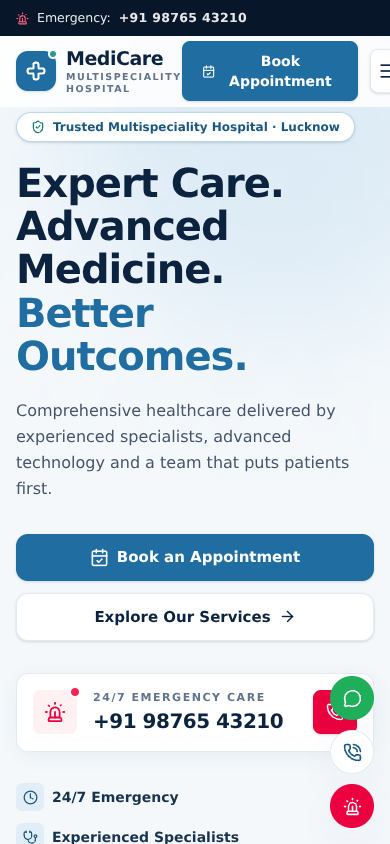
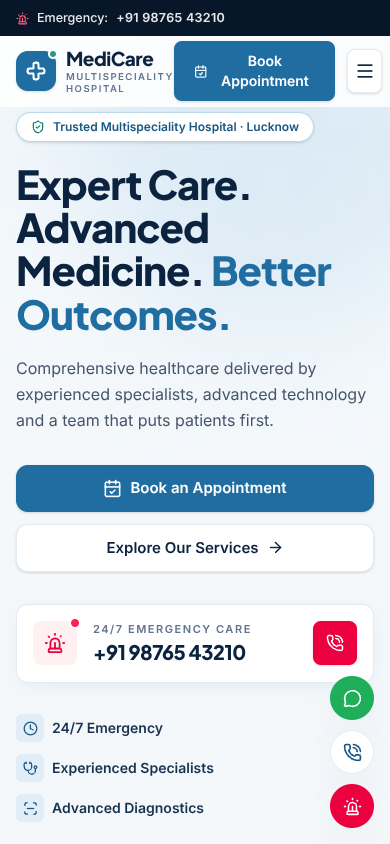
Polish pass: fix runtime theme scale bug, tap targets, stats dividers
- Fix buildScale().forEach crash when custom brand colours are set
  (verified: changing primary hex in hospitalConfig re-themes the site)
- 1200x630 OG social card from about image
- Self-hosted fonts (@fontsource) — no external requests
- Facilities: 3 unique high-res gallery tiles + on-campus amenities strip
- Larger tap targets (footer links, contact rows, topbar, view-department)
- Consistent border colours on mobile stats grid
- Cleaner doctor-modal CTA label, appointment prefill doctor-reset fix
- Automated headless-browser audit: ALL CHECKS PASS (dev + production build)

Changed region(s): [[0.0308, 0.1848, 0.9846, 1.0], [0.1538, 0.0, 1.0, 0.1848], [0.0923, 0.0, 0.2769, 0.0308]]

diff --git a/src/sections/Facilities.jsx b/src/sections/Facilities.jsx
@@ -1,7 +1,7 @@
-import { ArrowUpRight, MapPin } from "lucide-react";
-import facilities from "../data/facilities";
+import { ArrowUpRight, CheckCircle2, MapPin } from "lucide-react";
+import { amenities, facilities } from "../data/facilities";
 import hospitalConfig from "../config/hospital";
-import { cn, containerClass } from "../lib/utils";
+import { containerClass } from "../lib/utils";
 import Button from "../components/Button";
 import Reveal from "../components/Reveal";
 import SectionHeading from "../components/SectionHeading";
@@ -26,16 +26,12 @@ export default function Facilities() {
 
         <div className="mt-12 grid gap-5 sm:grid-cols-2 lg:grid-cols-3">
           {facilities.map((facility, i) => (
-            <Reveal
-              key={facility.id}
-              delay={(i % 3) * 90}
-              className={cn(facility.featured && "sm:col-span-2")}
-            >
-              <figure className="group relative h-full min-h-[220px] overflow-hidden rounded-2xl shadow-sm ring-1 ring-navy-900/5 transition-shadow duration-300 hover:shadow-lift lg:min-h-[260px]">
+            <Reveal key={facility.id} delay={i * 90}>
+              <figure className="group relative h-full overflow-hidden rounded-2xl shadow-sm ring-1 ring-navy-900/5 transition-shadow duration-300 hover:shadow-lift">
                 <img
                   src={facility.image}
                   alt={`${facility.title} at MediCare Multispeciality Hospital`}
-                  className="absolute inset-0 h-full w-full object-cover transition-transform duration-700 group-hover:scale-[1.05]"
+                  className="aspect-[4/3] w-full object-cover transition-transform duration-700 group-hover:scale-[1.05]"
                   loading="lazy"
                   decoding="async"
                 />
@@ -48,7 +44,7 @@ export default function Facilities() {
                     <h3 className="font-display text-[17px] font-bold tracking-tight text-white">
                       {facility.title}
                     </h3>
-                    <p className="mt-1 max-w-sm text-[13px] leading-snug text-white/75">
+                    <p className="mt-1 text-[13px] leading-snug text-white/75">
                       {facility.description}
                     </p>
                   </div>
@@ -63,6 +59,24 @@ export default function Facilities() {
             </Reveal>
           ))}
         </div>
+
+        {/* On-campus amenities */}
+        <Reveal delay={140}>
+          <ul className="mt-8 flex flex-wrap items-center gap-2.5">
+            <li className="mr-1 text-[13px] font-bold uppercase tracking-[0.14em] text-navy-800/60">
+              Also on campus
+            </li>
+            {amenities.map((item) => (
+              <li
+                key={item}
+                className="flex items-center gap-1.5 rounded-full border border-line bg-white px-3.5 py-2 text-[13px] font-semibold text-navy-800"
+              >
+                <CheckCircle2 size={13} className="text-accent-600" aria-hidden="true" />
+                {item}
+              </li>
+            ))}
+          </ul>
+        </Reveal>
       </div>
     </section>
   );

diff --git a/src/data/facilities.js b/src/data/facilities.js
@@ -1,49 +1,37 @@
 import facilityRoom from "../assets/images/facility-room.jpg";
 import facilityIcu from "../assets/images/facility-icu.jpg";
 import facilityOt from "../assets/images/facility-ot.jpg";
-import facilityLab from "../assets/images/facility-lab.jpg";
-import facilityReception from "../assets/images/facility-reception.jpg";
-import facilityWaiting from "../assets/images/facility-waiting.jpg";
 
 /** Facilities gallery — images are AI-generated for this demo. */
 export const facilities = [
   {
-    id: "reception",
-    image: facilityReception,
-    title: "Reception & Help Desk",
-    description: "Warm, welcoming assistance from the moment you arrive.",
-    featured: true,
-  },
-  {
     id: "patient-rooms",
     image: facilityRoom,
     title: "Modern Patient Rooms",
-    description: "Private, airy rooms designed for restful recovery.",
+    description: "Private, airy rooms with attendant beds and modern monitoring, designed for restful recovery.",
   },
   {
     id: "icu",
     image: facilityIcu,
     title: "Intensive Care Unit",
-    description: "Intensivist-led ICU with round-the-clock monitoring.",
+    description: "Intensivist-led ICU with advanced ventilators and round-the-clock monitoring.",
   },
   {
     id: "operation-theatres",
     image: facilityOt,
     title: "Operation Theatres",
-    description: "Modular OTs with laminar airflow and precision equipment.",
+    description: "Modular OTs with laminar airflow, precision optics and integrated recovery care.",
   },
-  {
-    id: "diagnostic-lab",
-    image: facilityLab,
-    title: "Diagnostic Laboratory",
-    description: "Automated pathology and imaging for fast, accurate reports.",
-  },
-  {
-    id: "waiting-lounge",
-    image: facilityWaiting,
-    title: "Waiting Lounge",
-    description: "Calm, comfortable spaces for patients and families.",
-  },
+];
+
+/** Additional on-campus amenities listed as chips below the gallery. */
+export const amenities = [
+  "Diagnostic Laboratory",
+  "Advanced Imaging (CT · MRI · X-Ray)",
+  "24/7 Pharmacy",
+  "Blood Bank",
+  "Ambulance Service",
+  "Cafeteria & Waiting Lounge",
 ];
 
 export default facilities;

diff --git a/src/components/Footer.jsx b/src/components/Footer.jsx
@@ -94,7 +94,7 @@ export default function Footer() {
               {hospitalConfig.address}
             </li>
             <li>
-              <a href={hospitalConfig.phoneHref} className="flex items-center gap-3 transition-colors hover:text-white">
+              <a href={hospitalConfig.phoneHref} className="flex items-center gap-3 py-0.5 transition-colors hover:text-white">
                 <PhoneCall size={16} className="shrink-0 text-primary-400" aria-hidden="true" />
                 {hospitalConfig.phone}
               </a>
@@ -139,7 +139,7 @@ export default function Footer() {
             href={waLink(developer.whatsapp, developer.whatsappMessage)}
             target="_blank"
             rel="noopener noreferrer"
-            className="inline-flex items-center gap-1.5 font-semibold text-accent-300 transition-colors hover:text-accent-200"
+            className="inline-flex items-center gap-1.5 py-1 font-semibold text-accent-300 transition-colors hover:text-accent-200"
           >
             <svg width="13" height="13" viewBox="0 0 24 24" fill="currentColor" aria-hidden="true">
               <path d="M12.04 2a9.9 9.9 0 0 0-8.4 15.2L2.1 21.8l4.72-1.5A9.9 9.9 0 1 0 12.04 2Zm5.8 14.1c-.25.7-1.45 1.35-2 1.4-.5.06-1.13.08-1.83-.12a16 16 0 0 1-1.66-.6c-2.92-1.26-4.83-4.2-4.98-4.4-.14-.2-1.18-1.58-1.18-3s.74-2.13 1-2.42c.27-.29.58-.36.78-.36s.4 0 .57.01c.19.01.44-.07.68.52.25.6.85 2.07.92 2.22.07.15.12.32.02.51-.1.2-.15.32-.29.5-.15.17-.31.38-.44.51-.15.15-.3.31-.13.6.17.3.75 1.24 1.61 2 1.1.99 2.03 1.3 2.32 1.44.29.15.46.13.63-.08.17-.2.73-.85.92-1.14.2-.29.4-.24.66-.15.27.1 1.7.8 1.99.95.29.14.48.22.55.34.07.13.07.74-.17 1.45Z" />

diff --git a/src/sections/Appointment.jsx b/src/sections/Appointment.jsx
@@ -103,11 +103,17 @@ export default function Appointment({ bookingRequest }) {
   /* Apply prefills coming from the Departments / Doctors sections */
   useEffect(() => {
     if (!bookingRequest) return;
-    setForm((prev) => ({
-      ...prev,
-      department: bookingRequest.departmentId || prev.department,
-      doctor: bookingRequest.doctorId || (bookingRequest.departmentId ? prev.doctor : prev.doctor),
-    }));
+    setForm((prev) => {
+      const department = bookingRequest.departmentId || prev.department;
+      const prevDoctorValid = doctors.some(
+        (d) => d.id === prev.doctor && d.departmentId === department
+      );
+      return {
+        ...prev,
+        department,
+        doctor: bookingRequest.doctorId || (prevDoctorValid ? prev.doctor : ""),
+      };
+    });
     setStatus("idle");
     const t = setTimeout(() => nameInputRef.current?.focus({ preventScroll: true }), 450);
     return () => clearTimeout(t);

diff --git a/src/sections/Stats.jsx b/src/sections/Stats.jsx
@@ -53,7 +53,7 @@ export default function Stats() {
       <Reveal className={cn(containerClass)}>
         <div
           ref={ref}
-          className="grid grid-cols-2 divide-line lg:grid-cols-4 lg:divide-x max-lg:gap-y-0 max-lg:[&>*:nth-child(odd)]:border-r max-lg:[&>*:nth-child(-n+2)]:border-b"
+          className="grid grid-cols-2 divide-line [&>*]:border-line max-lg:gap-y-0 max-lg:[&>*:nth-child(odd)]:border-r max-lg:[&>*:nth-child(-n+2)]:border-b lg:grid-cols-4 lg:divide-x"
         >
           {STATS.map((stat) => (
             <StatItem key={stat.label} {...stat} active={active} />

diff --git a/src/lib/utils.js b/src/lib/utils.js
@@ -69,7 +69,7 @@ export function applyThemeColors(colors) {
   const apply = (name, base, fallback) => {
     const hex = (base || fallback).toLowerCase();
     if (hex === fallback) return; // keep the hand-tuned palette in index.css
-    buildScale(hex).forEach((value, shade) => {
+    Object.entries(buildScale(hex)).forEach(([shade, value]) => {
       root.style.setProperty(`--color-${name}-${shade}`, value);
     });
   };

diff --git a/src/sections/Doctors.jsx b/src/sections/Doctors.jsx
@@ -69,7 +69,7 @@ export default function Doctors({ onBook }) {
           />
           <Reveal delay={150}>
             <Button as="a" href="#appointment" variant="secondary" size="lg" className="shrink-0">
-              View All Doctors
+              Book a Consultation
               <ArrowRight size={17} aria-hidden="true" />
             </Button>
           </Reveal>
